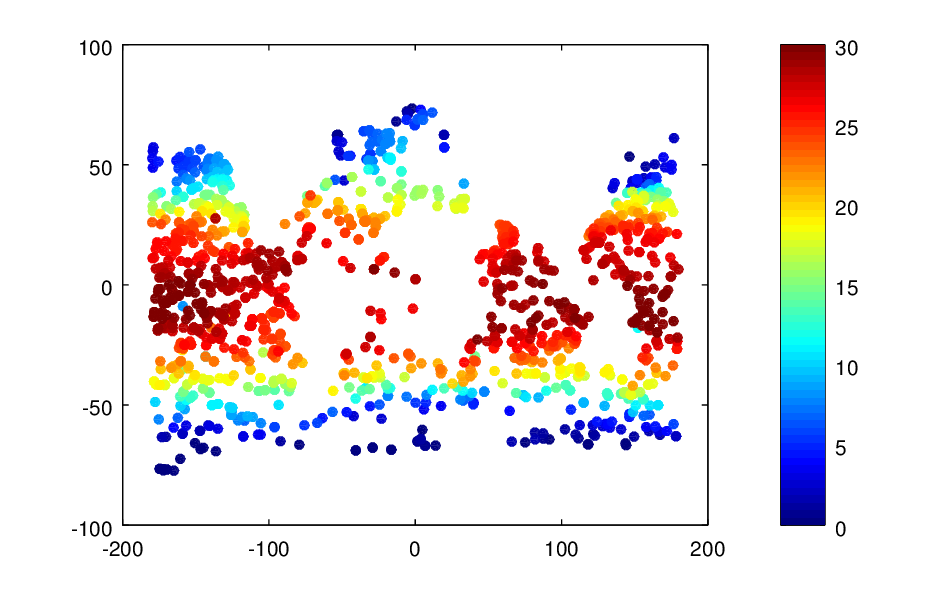
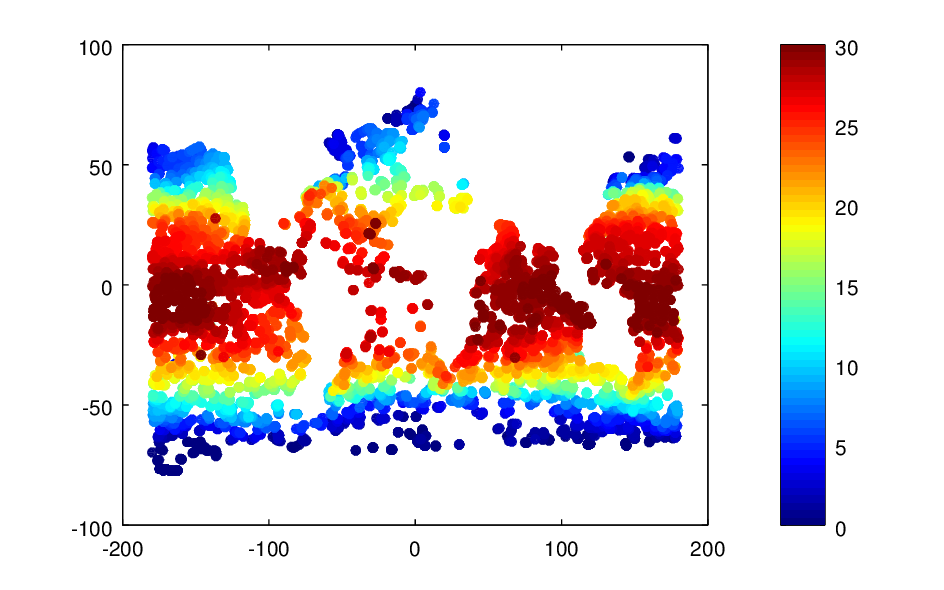
title

Changed region(s): [[0.1536, 0.1525, 0.7373, 0.7932]]

diff --git a/index.html b/index.html
@@ -1,7 +1,7 @@
 <!DOCTYPE html>
 <html>
   <head>
-    <title>Title</title>
+    <title>Extension of DIVA to higher dimensions (diva-nd)</title>
     <meta http-equiv="Content-Type" content="text/html; charset=UTF-8"/>
     <style type="text/css">
       /* Slideshow styles */
@@ -12,16 +12,21 @@
 
 class: center, middle
 
-# divand
+# Extension of DIVA to higher dimensions (diva-nd)
 Alexander Barth
 ---
 
+class: middle
+
 # Objective
 
-* 
+* Introduction to the matlab/octave code of diva-nd
+* Show how to make a 2D analysis (longitude,latitude)
+* How to handle periodic boundary conditions
+* Show how to make a 3D analysis (longitude,latitude,time)
 
 ---
-# ARGO
+# Example data set: ARGO
 
 * Data file is `argo_data.mat`
 * Data can be loaded with:
@@ -34,13 +39,12 @@ where you have to use the appropriate file path and replace `/path/to`.
 * Use `whos` to list the loaded variables:
 
 ```
-   Attr Name             Size                     Bytes  Class
-   ==== ====             ====                     =====  ===== 
-        Tobs             1x1444                   11552  double
-        latobs           1x1444                   11552  double
-        lonobs           1x1444                   11552  double
-        timeobs          1x1444                   11552  double
-
+   Attr Name         Size                     Bytes  Class
+   ==== ====         ====                     =====  =====
+        Tobs         1x11000                  88000  double
+        latobs       1x11000                  88000  double
+        lonobs       1x11000                  88000  double
+        timeobs      1x11000                  88000  double
 ```
 
  * lonobs: the longitude of the observations (in degrees North)
@@ -50,7 +54,7 @@ where you have to use the appropriate file path and replace `/path/to`.
 
 ---
 
-* The time in matlab/octave can be manupilated with the commands `datenum`, `datevec`, and `datestr` (use e.g. `help datenum`).
+* The time in matlab/octave can be manipulated with the commands `datenum`, `datevec`, and `datestr` (use e.g. `help datenum`).
 * What is the time range of the observations?
 
 ```matlab
@@ -58,7 +62,7 @@ datestr(min(timeobs))
 datestr(max(timeobs))
 ```
 ---
-* Fisualize the data
+* Visualize the data
 
 <div style="text-align:center">
 <img src="Fig/data_distrib1.png" width="700">
@@ -86,28 +90,14 @@ colorbar
 ---
 # Outliers
 
-* There are some obvious outliers 
-* How to remove these obvious outliers? Update `lonobs`, `latobs`, `timeobs` and `Tobs`.
+* There are some obvious outliers
+* How to remove these obvious outliers?
+ * using range checks
+ * consistency with near-by observations
+ * consistency with a climatology
+ * ...
 
---
-
-```matlab
-keep = true(size(Tobs));
-keep(Tobs > 50) = false;
-keep(Tobs < 20 & abs(latobs) < 20) = false;
-
-lonobs = lonobs(keep);
-latobs = latobs(keep);
-timeobs = timeobs(keep);
-Tobs = Tobs(keep);
-```
----
-
-* Visualize the dataset without the outliers 
-<div style="text-align:center">
-<img src="Fig/data_distrib_clean.png" width="700">
-</div>
-
+* We will make an analysis with low signal-to-noise-ratio and exclude observations with a too large deviation from this analysis
 
 ---
 # Bathymetry
@@ -162,7 +152,7 @@ pcolor(lon,lat,double(mask)), shading flat, colorbar
 * `pm` and `pn` are in meters^-1
 * `pm` inceases toward the poles and `pn` is just constant for a spherical mesh.
 <div style="text-align:center">
-<img src="Fig/pm.png" width="500">
+<img src="Fig/pm.png" width="400">
 </div>
 
 ```matlab
@@ -185,7 +175,7 @@ Tanom = Tobs - mean(Tobs);
 len = 3000e3;
 
 % signal-to-noise ratio
-lambda = 10;
+lambda = 1;
 
 % make analysis
 Ta =  divand(mask,{pm,pn},{lon,lat},{lonobs,latobs},...
@@ -203,15 +193,6 @@ Ta =  divand(mask,{pm,pn},{lon,lat},{lonobs,latobs},...
 </div>
 
 ---
-# Issue periodic boundaries
-
-<div style="text-align:center">
-<img src="Fig/periodicity.png" width="700">
-</div>
-
-
-
----
 
 * Add the mean back
 
@@ -222,6 +203,220 @@ Ta2 = Tam + Tmean;
 <img src="Fig/temp_analysis.png" width="700">
 </div>
 
+
+---
+# Issue at periodic boundaries
+
+<div style="text-align:center">
+<img src="Fig/periodicity.png" width="500">
+</div>
+
+```matlab
+Tam =  divand(mask,{pm,pn},{lon,lat},{lonobs,latobs},Tanom,...
+  len,lambda,'moddim',[360 0]);
+```
+
+---
+# Difference between observation and analysis
+
+* Interpolate the analysis at the location of the observations and compute the difference:
+
+```matlab
+Tanom2 = Tobs - interpn(lon,lat,Ta2,lonobs,latobs);
+```
+* How to take into account that longitude dimension is periodic?
+
+--
+```matlab
+Tanom2 = Tobs - interpn([lon(end,:)-360; lon],...
+   [lat(end,:); lat], ...
+   [Ta2(end,:); Ta2],lonobs,latobs);
+```
+---
+* Visualize the anomalies:
+
+<div style="text-align:center">
+<img src="Fig/Tanom2.png" width="500">
+</div>
+
+--
+
+```matlab
+ scatter(lonobs(~isnan(Tanom2)),latobs(~isnan(Tanom2)),5,...
+    Tanom2(~isnan(Tanom2)),'filled')
+ colorbar
+```
+
+---
+# Remove outliers
+
+* Keep only data where the anomaly is smaller than 10 degrees
+
+--
+```matlab
+keep = abs(Tanom2) < 10 | isnan(Tanom2);
+```
+
+* Show excluded data:
+
+<div style="text-align:center">
+<img src="Fig/bad.png" width="300">
+</div>
+
+--
+
+```matlab
+scatter(lonobs(~keep),latobs(~keep),5,Tobs(~keep),'filled')
+colorbar
+```
+
+---
+# Retained data
+* Show keep data:
+
+<div style="text-align:center">
+<img src="Fig/good.png" width="500">
+</div>
+
+--
+```matlab
+scatter(lonobs(keep),latobs(keep),5,Tobs(keep),'filled')
+colorbar
+```
+
+---
+
+* Update `lonobs`, `latobs`, `timeobs`, `Tobs`
+
+--
+```matlab
+lonobs = lonobs(keep);
+latobs = latobs(keep);
+timeobs = timeobs(keep);
+Tobs = Tobs(keep);
+```
+
+* re-do the analysis with clean data, and a signal-to-noise ratio of 10, add the mean back
+
+--
+
+```matlab
+Tmean = mean(Tobs);
+Tanom = Tobs - mean(Tobs);
+
+% signal-to-noise ratio
+lambda = 10;
+
+% make analysis
+
+Tam =  divand(mask,{pm,pn},{lon,lat},{lonobs,latobs},Tanom,len,...
+  lambda,'moddim',[360 0]);
+
+% add mean back
+Ta2 = Tam + Tmean;
+```
+
+---
+# 3D analysis
+
+* We use the 2D analysis as a background estimate
+* Compute the anomalies compared to this background estimate
+
+--
+
+```matlab
+Tanom2 = Tobs - interpn([lon(end,:)-360; lon],[lat(end,:); lat],...
+  [Ta2(end,:); Ta2],lonobs,latobs);
+```
+* Time dimensions
+
+```matlab
+time = datenum(2016,1,1):10:datenum(2016,2,5);
+N = length(time);
+```
+
+* Extend the `mask`, `lon` and `lat` with the extra time dimensions (calling the variables `mask3d`, `lon3d` and `lat3d`.)
+
+--
+
+```matlab
+mask3d = repmat(mask,[1 1 N]);
+lon3d = repmat(lon,[1 1 N]);
+lat3d = repmat(lat,[1 1 N]);
+```
+---
+
+* Define a variable `time3d` which has the same size as the other 3d variables and which varies only over the 3rd dimensions as the variable `time`.
+
+--
+
+```matlab
+time3d = repmat(reshape(time,[1 1 N]),[size(lon,1) size(lon,2) 1]);
+```
+
+* Creating the corresponding variables for the metric `pm3d`, `pn3d` and `po3d`:
+
+--
+```matlab
+pm3d = repmat(pm,[1 1 N]); % m^-1
+pn3d = repmat(pn,[1 1 N]); % m^-1
+po3d = ones(size(lon3d))/(time(2)-time(1)); % day^-1
+```
+
+* Set the spatial and temporal correlation length and the signal-to-noise ratio
+
+```matlab
+% temporal correlation length (same units as 1/po)
+len3 = 1000e3;
+lentime = 15;
+
+lambda = 5;
+```
+
+---
+# Make the 3d analysis
+
+* Launch divand with these variables
+
+```matlab
+Ta3 =  divand(mask3d,{pm3d,pn3d,po3d},{lon3d,lat3d,time3d},...
+    {lonobs,latobs,timeobs},...
+    Tanom2,{len3,len3,lentime},lambda);
+```
+
+* Add the mean back
+
+--
+
+```matlab
+Ta3 = Ta3 + repmat(Ta2,[1 1 N]);
+```
+
+* Plot all time instances (with the same colorbar)
+
+--
+
+```matlab
+ca = [min(Ta3(:)) max(Ta3(:))];
+for i = 1:N
+  clf
+  pcolor(lon,lat,Ta3(:,:,i)), shading flat,
+  caxis(ca); colorbar
+  title(datestr(time(i)))
+
+  print('-dpng',['Fig/temp_analysis' ...
+     datestr(time(i),'yyyy-mm-dd') '.png']);
+end
+```
+
+---
+# Additional tasks
+
+* Put all the command in a script (except for the plots) to automate the analysis
+* Try different parameters (correlation length, signal-to-noise-ration, outlier threshold)
+* Cross-validation:
+ * exclude a random 10% from the data and compare the analysis to the withheld data
+ * optimize the analysis parameters by minimizing the difference
 
     </textarea>
     <script src="remark-latest.min.js" type="text/javascript"></script>
@@ -249,3 +444,16 @@ Ta2 = Tam + Tmean;
     </script>
   </body>
 </html>
+
+<!--  LocalWords:  Slideshow nd matlab argo whos Attr Tobs latobs UTC
+ -->
+<!--  LocalWords:  lonobs timeobs datenum datevec datestr colorbar nc
+ -->
+<!--  LocalWords:  caxis Outliers outliers Bathymetry GEBCO ncdisp pn
+ -->
+<!--  LocalWords:  bathymetry ncread lon ndgrid pcolor divand Tmean
+ -->
+<!--  LocalWords:  Tanom len moddim interpn isnan repmat po lentime
+ -->
+<!--  LocalWords:  clf dpng yyyy png outlier
+ -->
